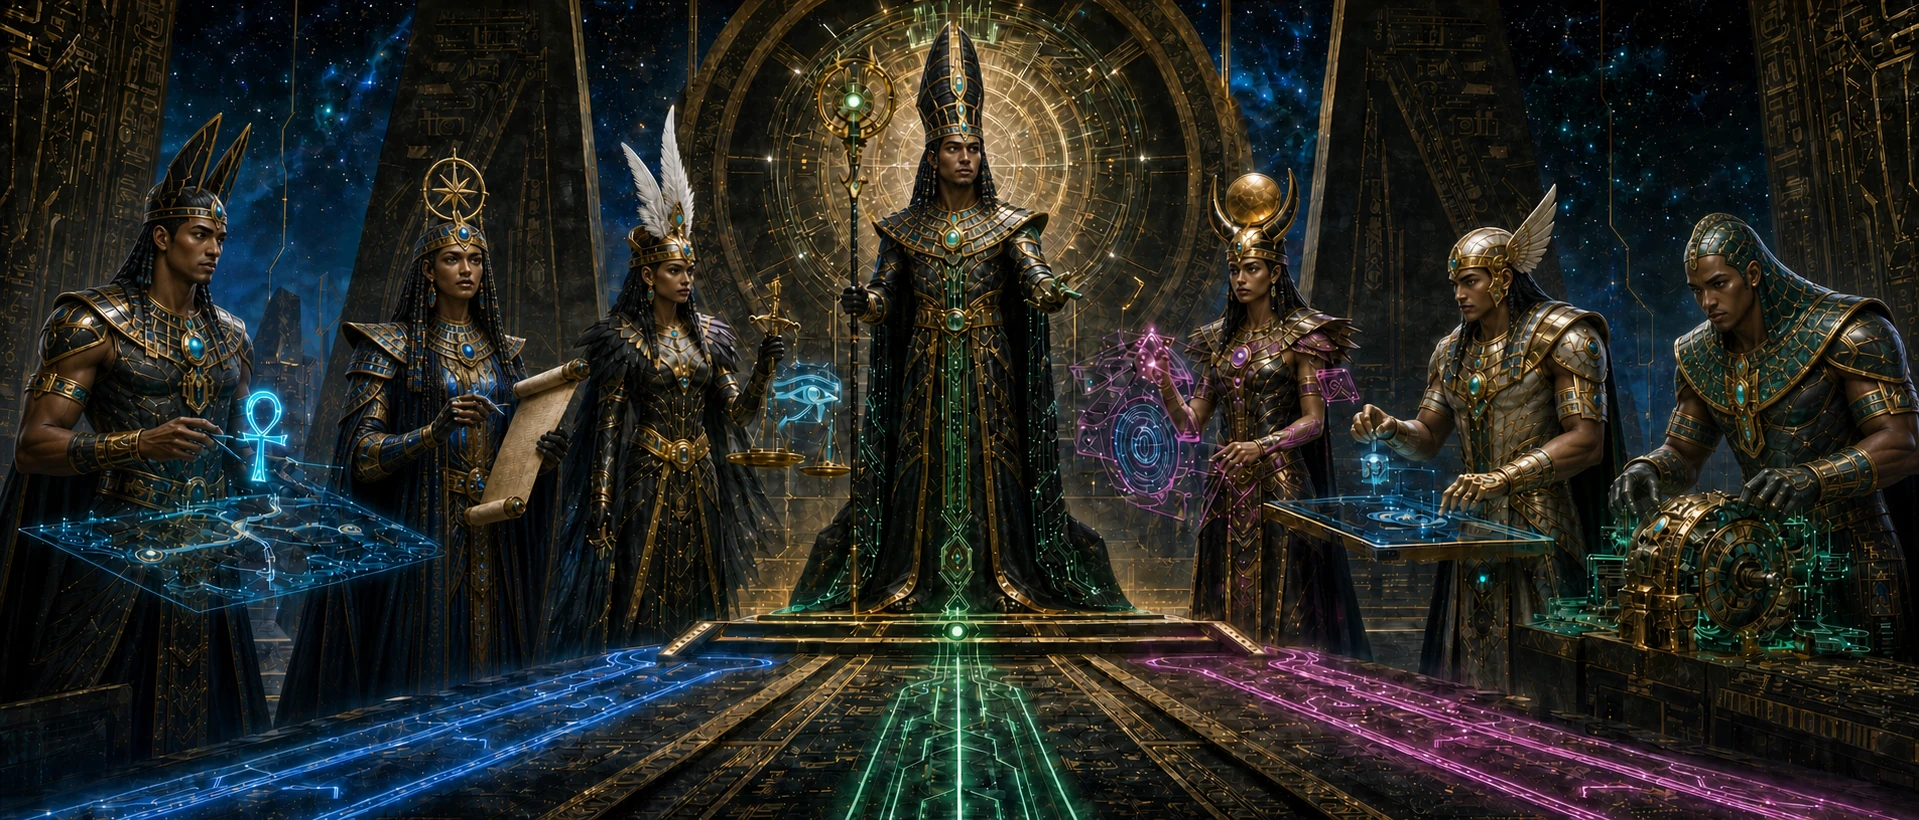
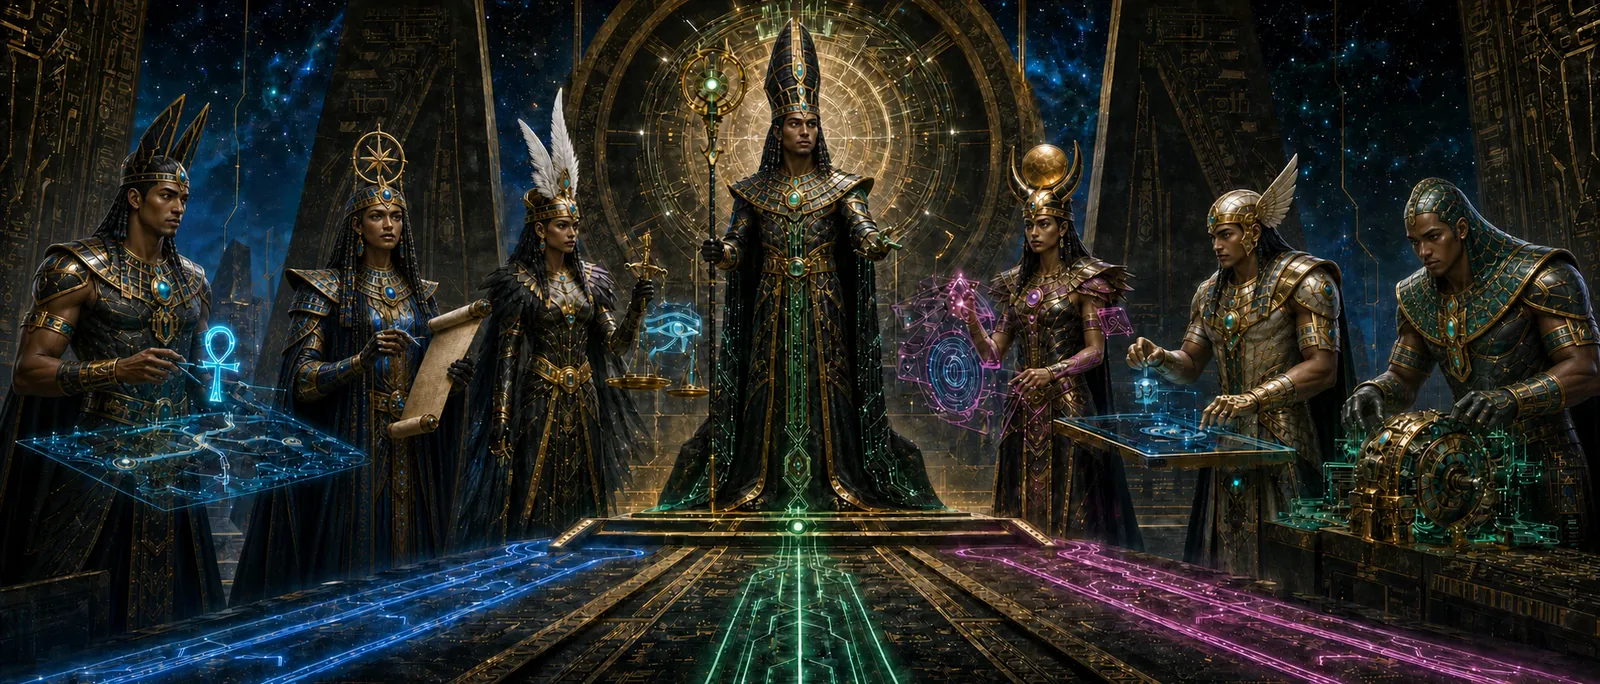
docs(readme): update agent illustrations
Add illustrations for Designer and Worker in the agents table, refresh
existing agent WebP assets, and remove obsolete image files and prompt
documentation to streamline repository assets.

diff --git a/README.md b/README.md
@@ -203,6 +203,7 @@ uncertainty, and risk and selects the fitting specialist.
 
 | Designer | Worker |
 | :---: | :---: |
+| <img src="img/agents/designer.webp" width="150" alt="Hathor as the Designer"> | <img src="img/agents/worker.webp" width="150" alt="Ptah as the Worker"> |
 | **Makes interfaces work well.** Owns material UI/UX, accessibility, interaction, and visual quality. | **Implements changes.** Owns delegated implementation, including coupled behavior, edge cases, migrations, and correctness-critical work. |
 
 Research and review specialists are read-only. Implementation work has one
